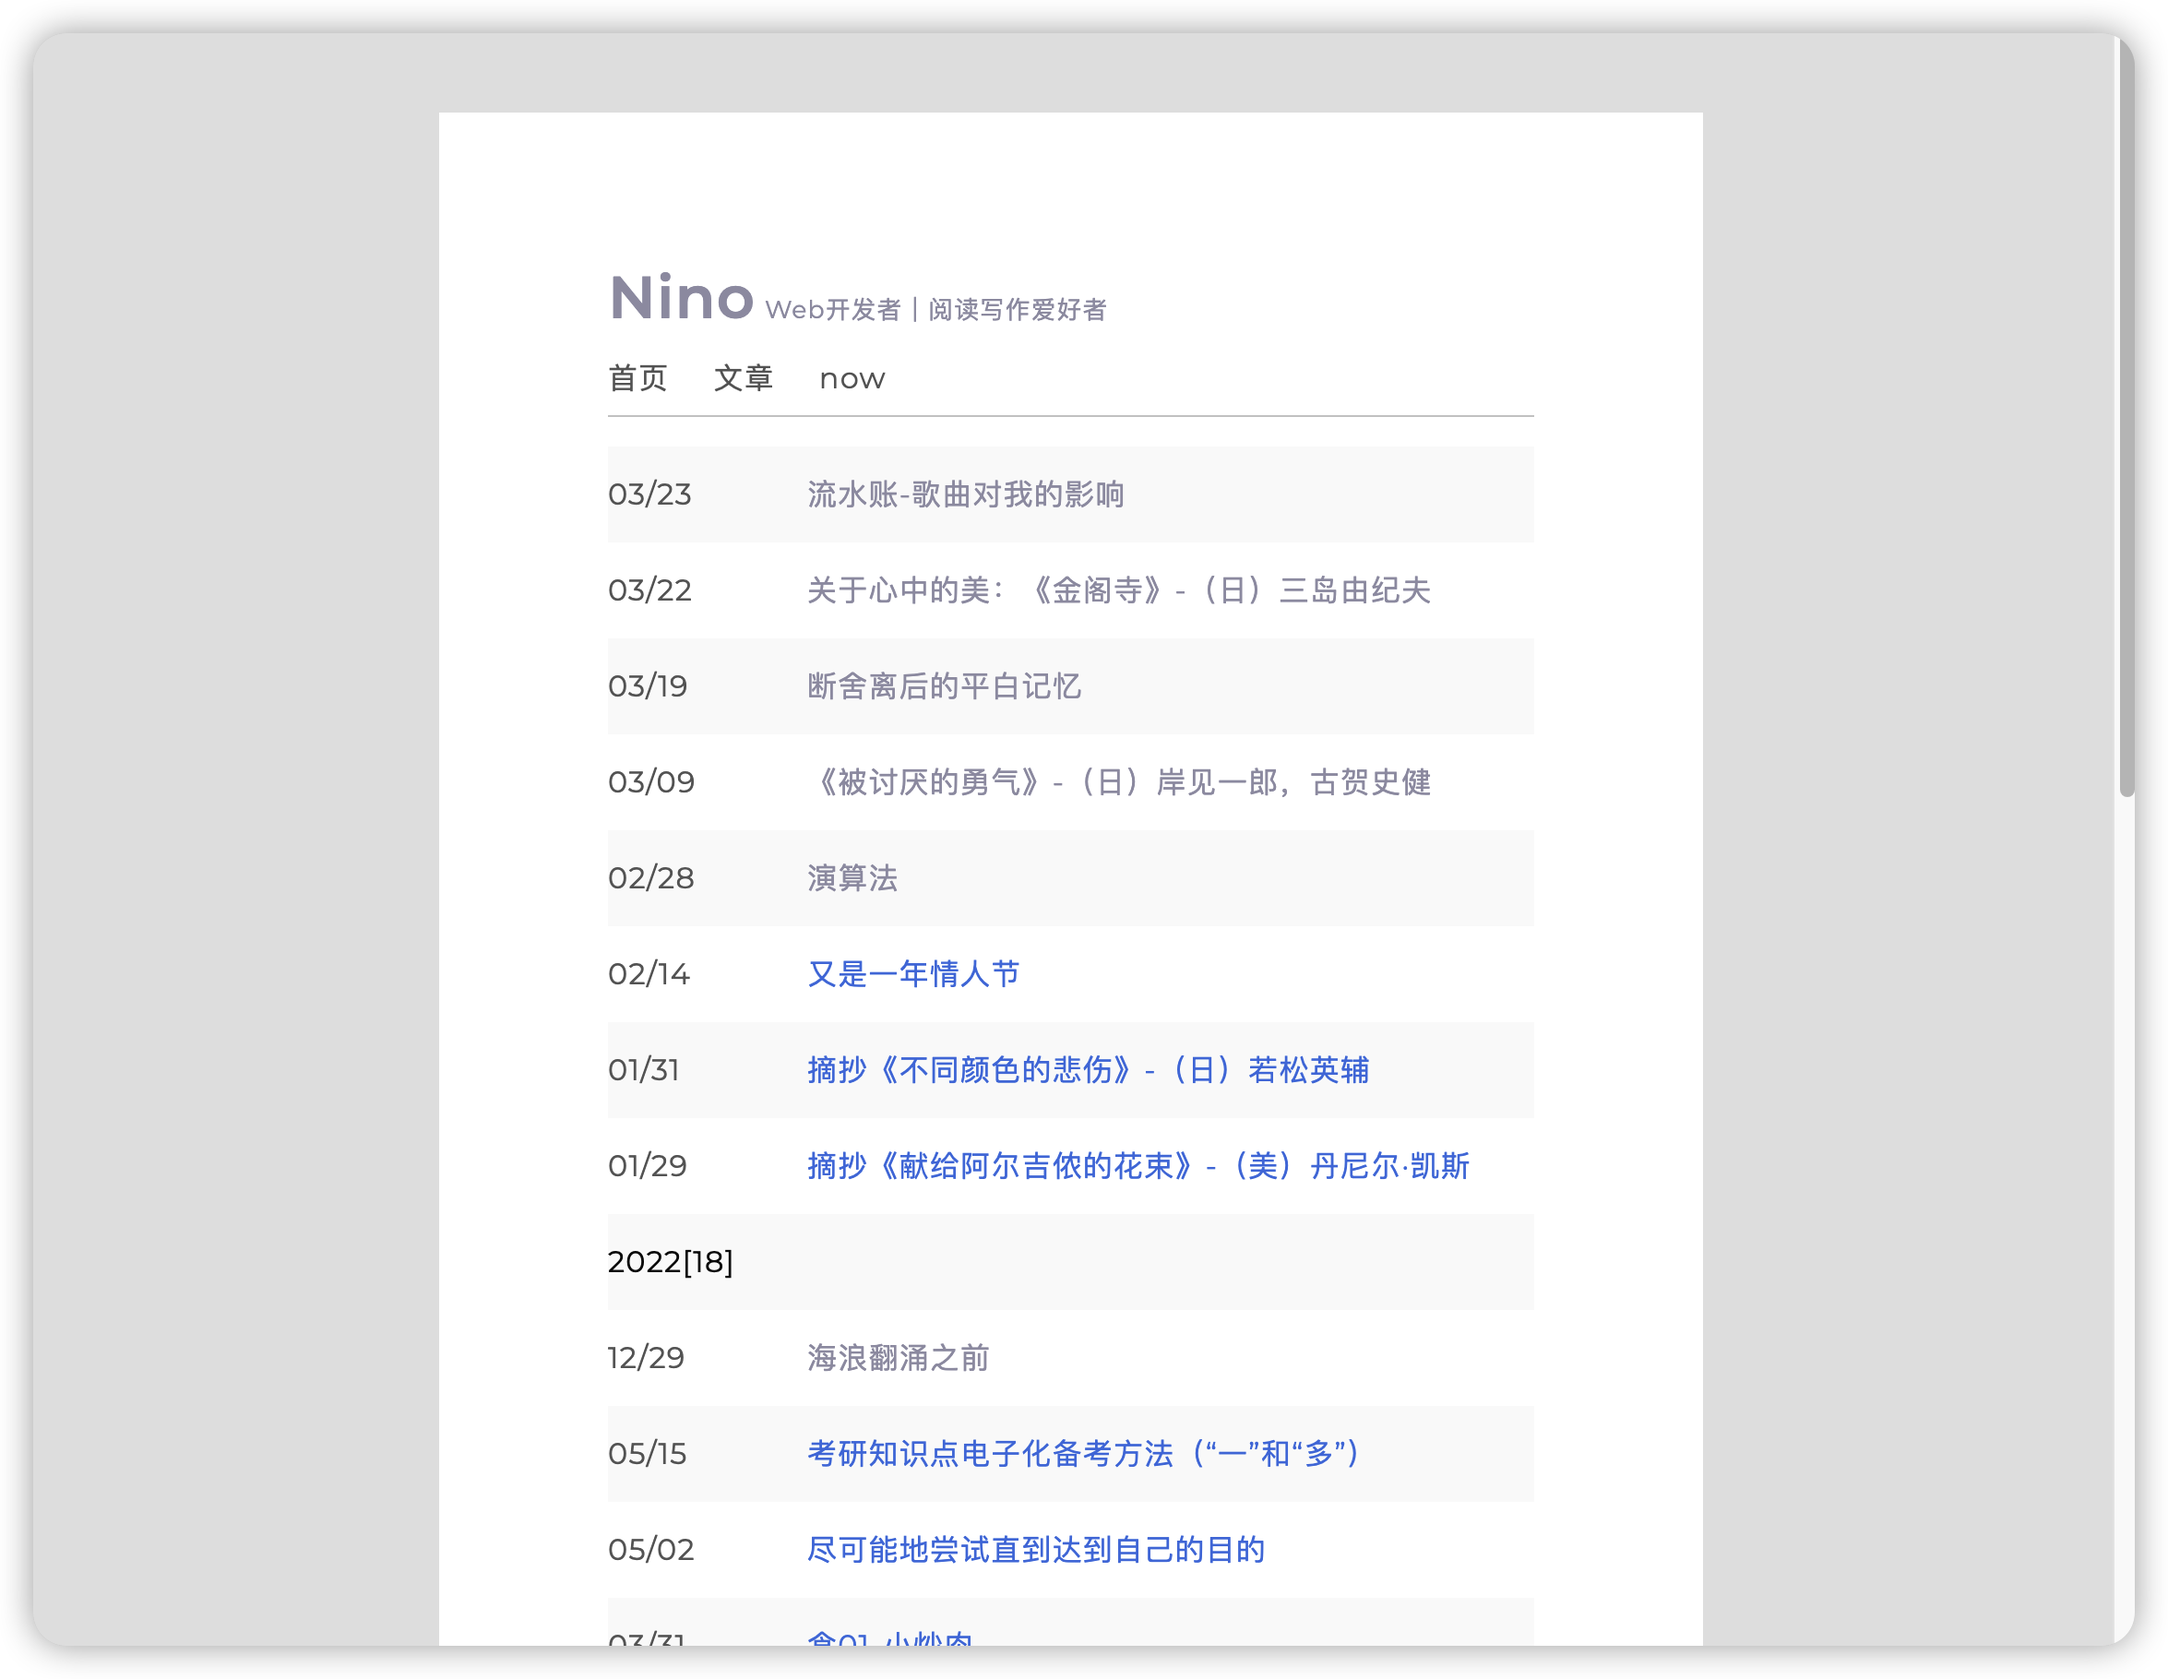
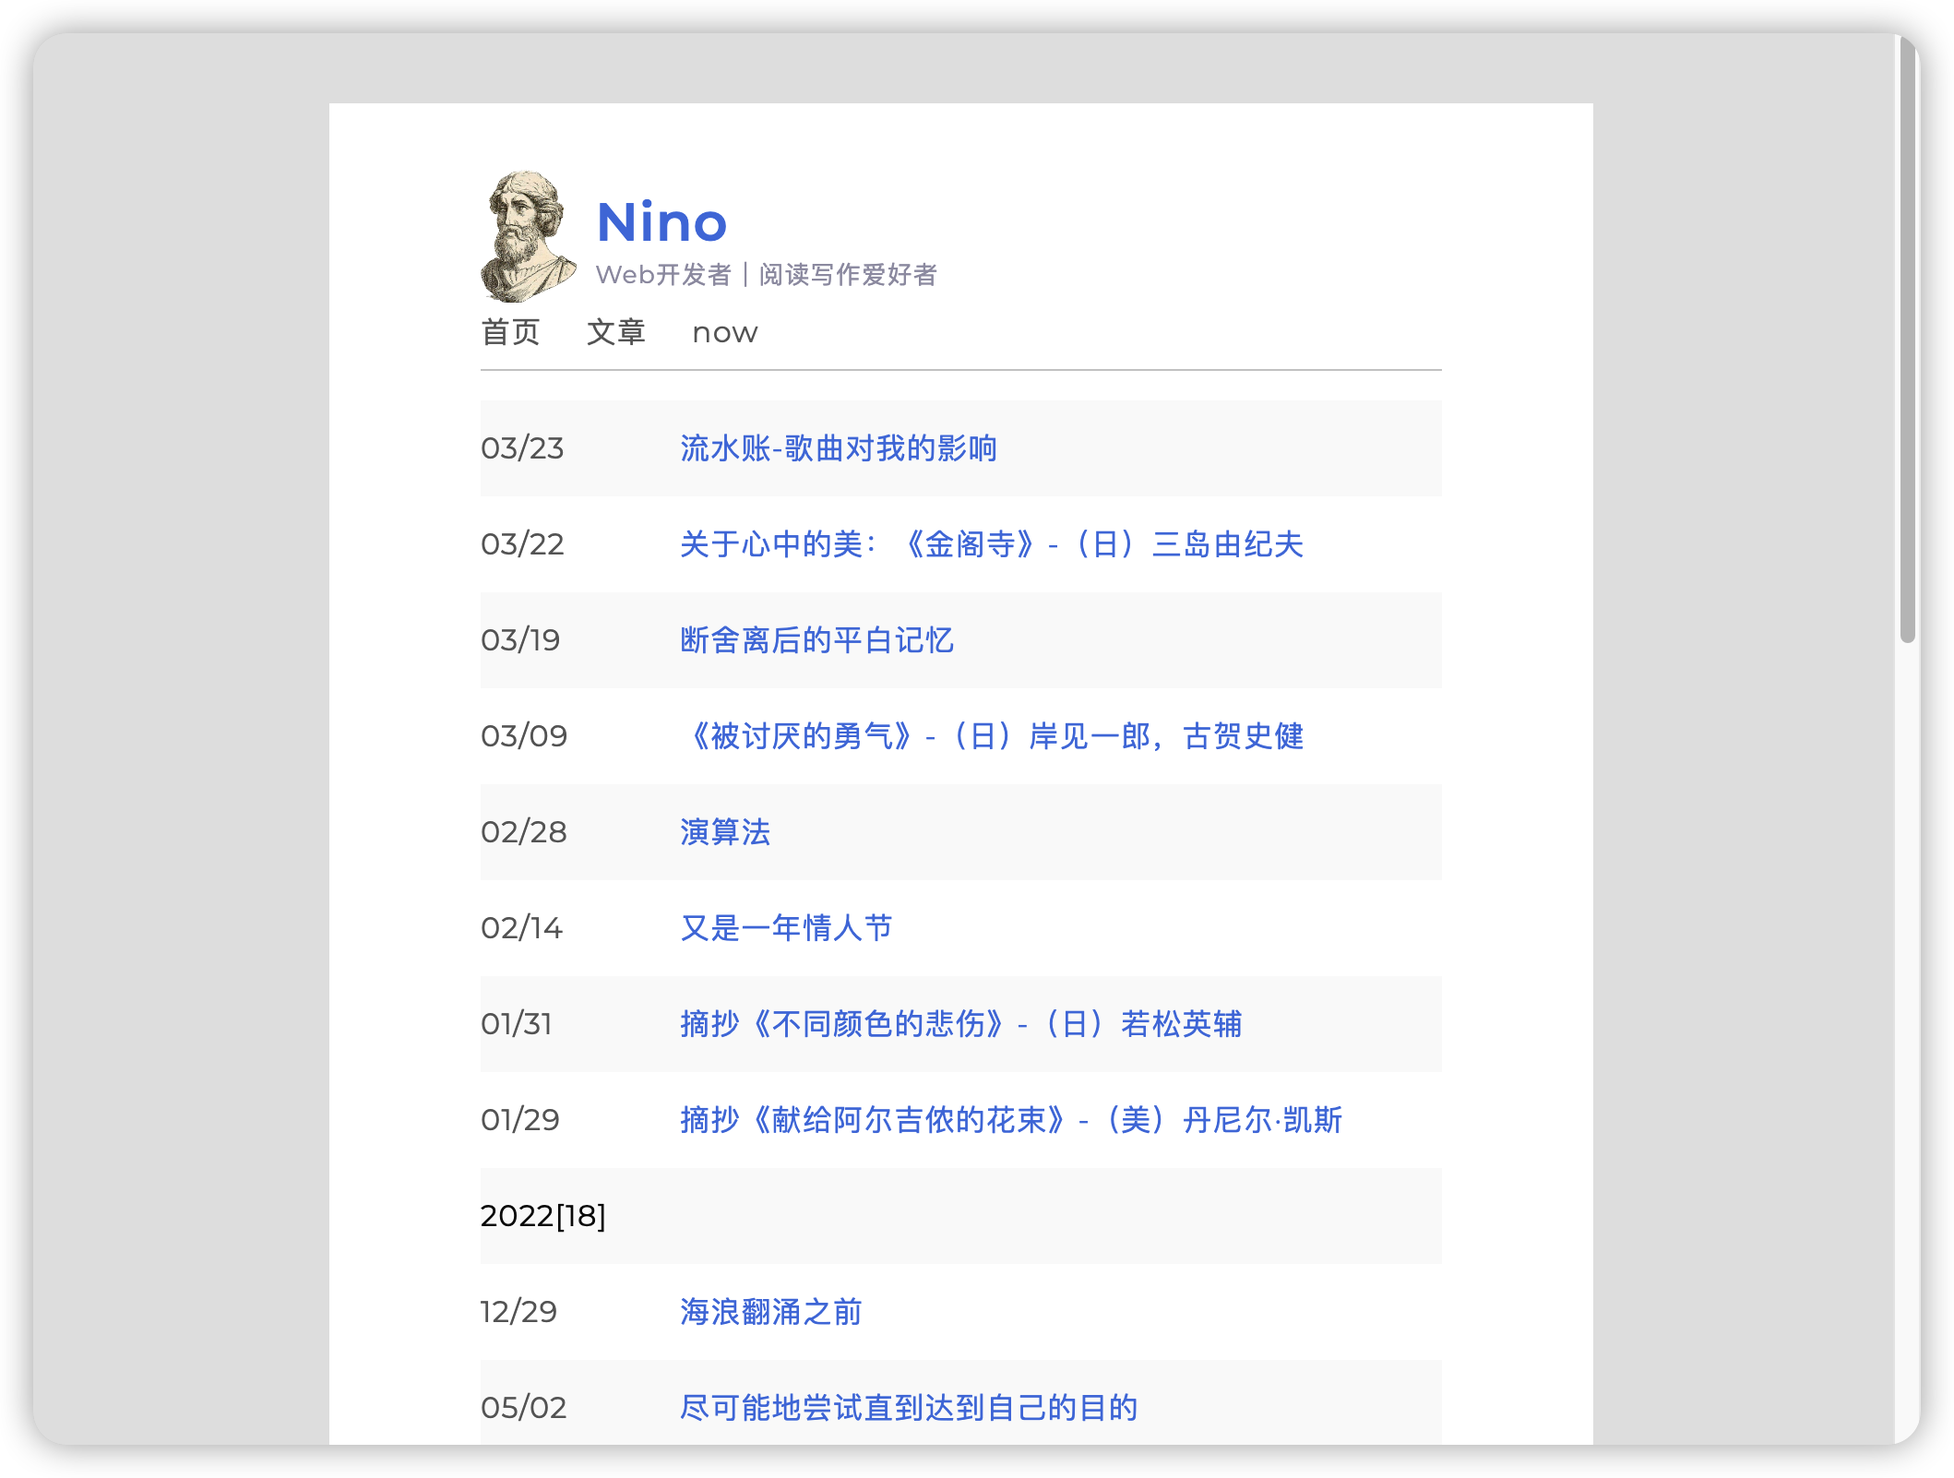
header更新

diff --git a/.history/source/css/style_20230414163243.css b/.history/source/css/style_20230414163243.css
@@ -51,7 +51,7 @@ a
     width: 100%;
     max-width: 685px;
     margin: 0 auto;
-    padding: 36px 8vw 24px;
+    padding: 72px 8vw 24px;
     background: #fff;
 }
 
@@ -68,7 +68,7 @@ a
 }
 .logo
 {
-    font-size: 1.8rem;
+    font-size: 2rem;
     font-weight: 600;
     color: var(--font-color-1);
     margin-bottom: 16px;
@@ -421,19 +421,7 @@ a:hover {
     text-decoration: underline; 
 }
 
-/* header相关 */
 .description {
     font-size: smaller;
     color: #9c9caf;
-    margin-top: -24px;
-}
-
-.header-container {
-    display: flex;
-    align-items: center;
-  }
-.header-content {
-display: flex;
-flex-direction: column;
-margin-left: 10px; /* 调整a标签和span之间的距离 */
 }

diff --git a/.history/source/css/reset_20221203001257.css b/.history/source/css/reset_20221203001257.css
@@ -48,7 +48,7 @@ a:not([class])
 img,
 picture
 {
-    /* width: auto; */
+    width: auto;
     max-width: 100%;
     display: block;
 }

diff --git a/.history/README_20230414170449.md b/.history/README_20230414170449.md
@@ -5,11 +5,10 @@
 
 - [x] waline评论功能
 - [x] a标签互动颜色改变
-- [x] header加入头像
 - [x] 首页展示为自定义post页面(待配置化)
 - [x] 首页的差异化，页面接近A4纸，相比于归档页面宽度更窄
-- [x] footer新增a标签（待配置化）
 - [ ] 归档页面自动年份分隔且统计该年文章数量（待自动化）
+- [ ] footer新增a标签（待配置化）
 
 ## TODO
 

diff --git a/.history/README_20230414192435.md b/.history/README_20230414192435.md
@@ -5,7 +5,6 @@
 
 - [x] waline评论功能
 - [x] a标签互动颜色改变
-- [x] header加入头像
 - [x] 首页展示为自定义post页面(待配置化)
 - [x] 首页的差异化，页面接近A4纸，相比于归档页面宽度更窄
 - [x] footer新增a标签（待配置化）
@@ -13,6 +12,7 @@
 
 ## TODO
 
+- header加入头像
 - 文章目录
 - 归档页面搜索功能
 - RSS

diff --git a/.history/README_20230414192438.md b/.history/README_20230414192438.md
@@ -5,7 +5,6 @@
 
 - [x] waline评论功能
 - [x] a标签互动颜色改变
-- [x] header加入头像
 - [x] 首页展示为自定义post页面(待配置化)
 - [x] 首页的差异化，页面接近A4纸，相比于归档页面宽度更窄
 - [x] footer新增a标签（待配置化）
@@ -13,6 +12,7 @@
 
 ## TODO
 
+- header加入头像
 - 文章目录
 - 归档页面搜索功能
 - RSS
